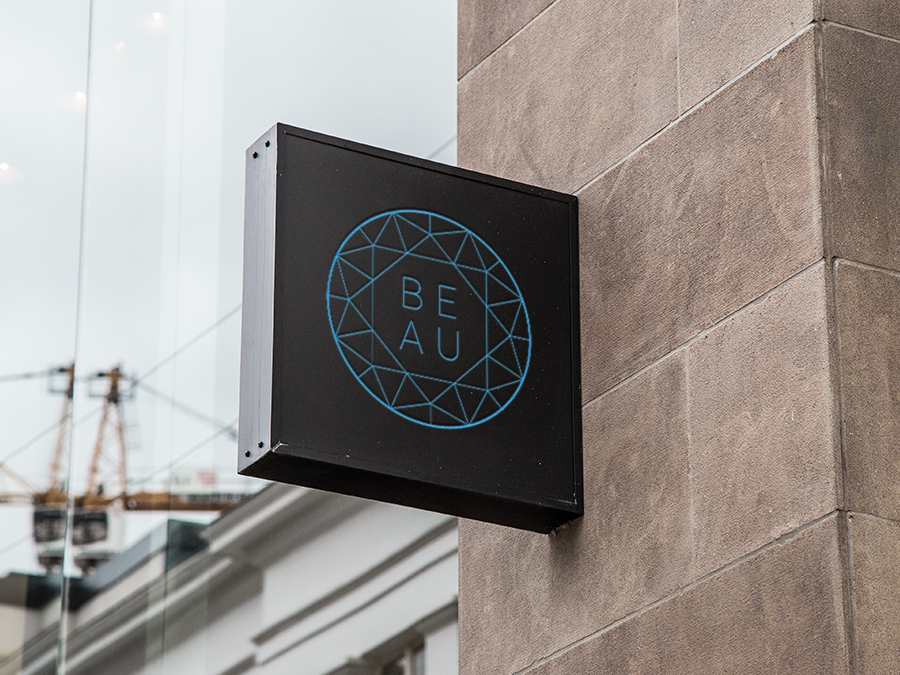
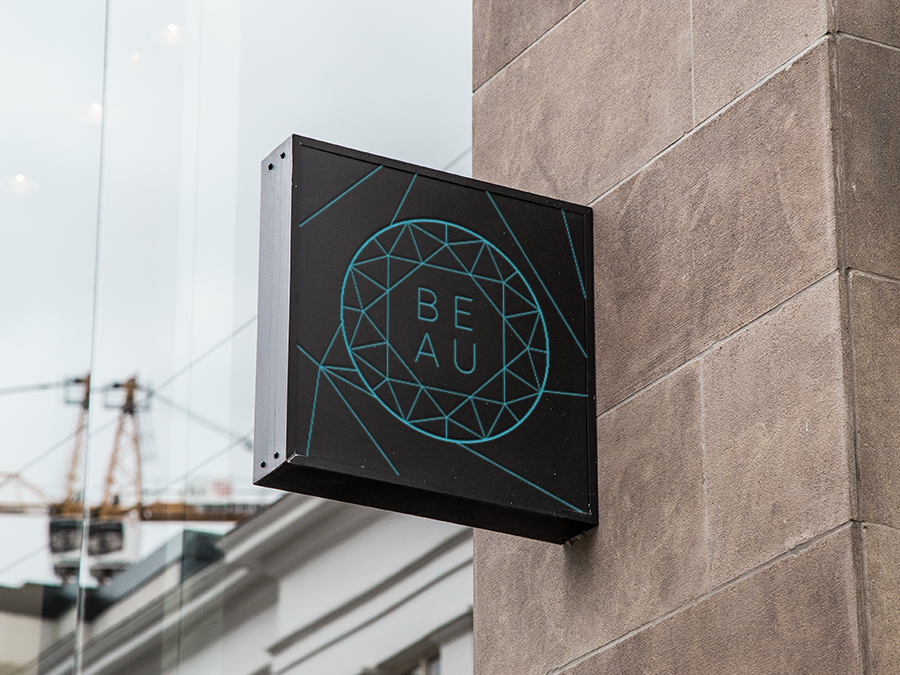
beau image add and colour change

diff --git a/docs/static/js/app.0203f46a03624565697a.js b/docs/static/js/app.0203f46a03624565697a.js
@@ -1,0 +1,1 @@
+webpackJsonp([0],{"0NSj":function(e,t){},"2oSw":function(e,t){},NHnr:function(e,t,i){"use strict";Object.defineProperty(t,"__esModule",{value:!0});var n=i("7+uW"),a=i("/ocq"),o=i("cVxw"),r=i.n(o),s={name:"Projects",data:function(){return{projects:r.a}},mounted:function(){document.title="Oli Heslington — Graphic Designer"}},c={render:function(){var e=this,t=e.$createElement,i=e._self._c||t;return i("main",{staticClass:"container projects"},[e._m(0),e._v(" "),i("section",e._l(e.projects,function(t){return i("router-link",{key:t.id,staticClass:"tile inverted",style:{background:t.color},attrs:{tag:"div",to:"/projects/"+t.id,data:t}},[i("div",{staticClass:"overlay"},[i("h2",{domProps:{innerHTML:e._s(t.title)}}),e._v(" "),i("p",[e._v("Explore project")])]),e._v(" "),i("img",{attrs:{src:"/static/img/"+t.id+"-ft.png",alt:t.title}})])}))])},staticRenderFns:[function(){var e=this.$createElement,t=this._self._c||e;return t("div",{staticClass:"container"},[t("h1",[this._v("Hi. I’m Oli. Graphic Designer & Creative Thinker.")])])}]};var l=i("VU/8")(s,c,!1,function(e){i("mYj/")},"data-v-6e9c58c6",null).exports,d={render:function(){var e=this.$createElement,t=this._self._c||e;return t("div",{attrs:{id:"app"}},[t("app-header"),this._v(" "),t("router-view",{key:this.$route.path}),this._v(" "),t("app-footer")],1)},staticRenderFns:[]};var h=i("VU/8")(null,d,!1,function(e){i("p7G0")},null,null).exports,u={name:"ProjectDetail",data:function(){return{projects:r.a}},props:["id"],computed:{currentProject:function(){for(var e=this.projects,t=0;t<e.length;t++){if(t+1>e.length-1)var i=t-1,n=0;else if(t-1<0)i=e.length-1,n=t+1;else i=t-1,n=t+1;e[t].prev={id:e[i].id,title:e[i].title},e[t].next={id:e[n].id,title:e[n].title}}var a=this.id;return e.filter(function(e){return e.id===a})}},mounted:function(){for(var e=this.projects,t=0;t<e.length;t++)e[t].id===this.id&&(document.title="Oli Heslington — "+e[t].title,document.getElementsByTagName("header")[0].classList.add("inverted"),document.getElementsByTagName("footer")[0].classList.add("inverted"),document.getElementsByTagName("body")[0].style.backgroundColor=e[t].color)},beforeDestroy:function(){document.getElementsByTagName("header")[0].classList.remove("inverted"),document.getElementsByTagName("footer")[0].classList.remove("inverted"),document.getElementsByTagName("body")[0].style.backgroundColor=null}},p={render:function(){var e=this,t=e.$createElement,i=e._self._c||t;return i("main",{staticClass:"project"},[e._l(e.currentProject,function(t){return i("div",{staticClass:"title"},[i("div",{staticClass:"container"},[i("h1",{domProps:{innerHTML:e._s(t.title)}})])])}),e._v(" "),e._l(e.currentProject,function(t){return i("div",{staticClass:"details"},[i("div",{staticClass:"container"},[i("div",[i("h4",[e._v("Scope")]),e._v(" "),i("ul",e._l(t.scope.length,function(n){return i("li",{staticClass:"caps",domProps:{innerHTML:e._s(t.scope[n-1])}})}))]),e._v(" "),i("div",[i("h4",[e._v("Overview")]),e._v(" "),i("p",{domProps:{innerHTML:e._s(t.overview)}})])])])}),e._v(" "),e._l(e.currentProject,function(t){return i("div",{staticClass:"bg"},[i("div",{staticClass:"container"},[i("img",{attrs:{src:"/static/img/"+t.id+"-1.png",alt:t.title}}),e._v(" "),i("div",{staticClass:"details"},[i("p",{domProps:{innerHTML:e._s(t.commentary)}})]),e._v(" "),e._l(3,function(e){return i("img",{attrs:{src:"/static/img/"+t.id+"-"+(e+1)+".png",alt:t.title}})})],2),e._v(" "),e._l(e.currentProject,function(t){return i("router-link",{key:t.next.id,staticClass:"next",attrs:{tag:"div",to:"/projects/"+t.next.id,data:t}},[i("p",{staticClass:"caps"},[e._v("Next")]),e._v(" "),i("h2",[e._v(e._s(t.next.title))])])})],2)})],2)},staticRenderFns:[]};var m=i("VU/8")(u,p,!1,function(e){i("2oSw")},"data-v-1106ae18",null).exports,v={mounted:function(){function e(){var e=window.innerHeight-(document.getElementsByTagName("header")[0].offsetHeight+document.getElementsByTagName("footer")[0].offsetHeight);document.getElementsByTagName("main")[0].style.minHeight=e+"px"}document.title="Oli Heslington — About",document.getElementsByTagName("body")[0].classList.add("inverted"),e(),window.onresize=e},beforeDestroy:function(){document.getElementsByTagName("body")[0].classList.remove("inverted"),document.getElementsByTagName("main")[0].style.minHeight=null}},g={render:function(){this.$createElement;this._self._c;return this._m(0)},staticRenderFns:[function(){var e=this,t=e.$createElement,i=e._self._c||t;return i("main",{staticClass:"about"},[i("div",{staticClass:"container"},[i("div",[i("h1",[e._v("OH, hello there…")])]),e._v(" "),i("div",[i("p",[e._v("I’m Oli Heslington a graphic designer and creative thinker with a passion for all things creative. I never miss a deadline I love a design challenge. My strengths lie in branding, corporate stationery, editorial design, website design, print and digital collateral and iconography and I enjoy exploring design solutions in order to develop new, contemporary, original and unique ideas to exceed clients’ expectations.")]),e._v(" "),i("p",[i("a",{attrs:{href:"mailto:oliheslington@gmail.com"}},[e._v("Email me")]),e._v(" to discuss your next project, or simply just say hello! 👋")])]),e._v(" "),i("div",[i("ul",[i("li",[i("h3",[e._v("Branding")])]),e._v(" "),i("li",[i("h3",[e._v("Corporate Stationery")])]),e._v(" "),i("li",[i("h3",[e._v("Editorial Design")])]),e._v(" "),i("li",[i("h3",[e._v("Website Design")])]),e._v(" "),i("li",[i("h3",[e._v("Print & Digital")])]),e._v(" "),i("li",[i("h3",[e._v("Iconography")])])])])])])}]};var f=i("VU/8")(v,g,!1,function(e){i("0NSj")},"data-v-6bc19062",null).exports;n.a.use(a.a);var y=new a.a({routes:[{path:"/",redirect:"/projects"},{path:"/projects",name:"Projects",component:l},{path:"/projects/:id",name:"ProjectDetail",component:m,props:!0},{path:"/about",name:"About",component:f}],scrollBehavior:function(e,t,i){return{x:0,y:0}}}),_={render:function(){var e=this.$createElement,t=this._self._c||e;return t("header",[t("router-link",{attrs:{exact:"",tag:"svg",to:"/projects",xmlns:"http://www.w3.org/2000/svg","xmlns:xlink":"http://www.w3.org/1999/xlink",x:"0px",y:"0px",width:"1000px",height:"1000px",viewBox:"0 0 1000 1000","enable-background":"new 0 0 1000 1000","xml:space":"preserve"}},[t("g",[t("path",{staticClass:"outer",attrs:{d:"M500,0c276.143,0,500,223.857,500,500s-223.857,500-500,500S0,776.143,0,500S223.857,0,500,0z"}}),this._v(" "),t("path",{staticClass:"inner",attrs:{d:"M330.871,336.785C233.415,336.785,158.2,403.015,158.2,500s75.214,163.214,172.671,163.214 S503.543,596.972,503.543,500S428.328,336.785,330.871,336.785z"}}),this._v(" "),t("path",{staticClass:"inner",attrs:{d:"M841.8,657.528h-95.57V536.9H633.172v120.628H537.6V341.986h95.572v111.655h113.058V341.986h95.57V657.528z"}}),this._v(" "),t("path",{staticClass:"outer",attrs:{d:"M336.349,421.116c-1.824-0.105-3.651-0.146-5.478-0.116c-41.243-0.637-75.193,32.28-75.83,73.523 c-0.029,1.825,0.01,3.652,0.116,5.477c-2.388,41.179,29.058,76.496,70.237,78.884c1.824,0.105,3.651,0.146,5.477,0.116 c41.243,0.638,75.192-32.28,75.831-73.523c0.029-1.825-0.011-3.652-0.116-5.477C408.974,458.821,377.527,423.504,336.349,421.116z"}})])]),this._v(" "),t("nav",[t("router-link",{staticClass:"caps",attrs:{tag:"a",to:"/projects"}},[this._v("Projects")]),this._v(" "),t("router-link",{staticClass:"caps",attrs:{tag:"a",to:"/about"}},[this._v("About")])],1)],1)},staticRenderFns:[]};var b=i("VU/8")(null,_,!1,function(e){i("nSCA")},"data-v-4db2c1c5",null).exports,w={render:function(){var e=this.$createElement,t=this._self._c||e;return t("footer",[t("small",[this._v("© "),t("span",[this._v("Copyright")]),this._v(" "+this._s((new Date).getFullYear())+" Oli Heslington")]),this._v(" "),t("a",{attrs:{href:"mailto:oliheslington@gmail.com"}},[this._v("oliheslington@gmail.com")])])},staticRenderFns:[]};var j=i("VU/8")(null,w,!1,function(e){i("Pw+e")},"data-v-b7451a0c",null).exports;n.a.component("app-header",b),n.a.component("app",h),n.a.component("app-footer",j),new n.a({el:"#app",router:y,components:{App:h},template:"<app/>"})},"Pw+e":function(e,t){},cVxw:function(e,t){e.exports=[{id:"fernhay",title:"Fernhay",scope:["Website Design"],overview:"The brief for this project was to create a new website design for Fernhay, an independent project management and product delivery company. They wanted their website to showcase their services and thought process involved with every project they undertake whilst evoking a friendly, high quality service.",commentary:"Lorem ipsum dolor sit amet, consectetur adipiscing elit. Curabitur non diam eu orci lobortis ultrices sed vel metus. Etiam eu viverra nulla, lacinia ultricies turpis. Mauris vitae vehicula dolor. Vestibulum posuere nullam.",color:"#1b99a7"},{id:"thirteen",title:"Osborne Pike",scope:["Editorial Design"],overview:"The brief for this project was to create a book to celebrate Osborne Pike's 13<sup>th</sup> birthday. The book would include 13 launched projects and 13 concepts.",commentary:"The concept that I chose for the book combines both their existing brand and their previous logo, creating lines and directing the reader through a story of their work.",color:"#f89623"},{id:"beau",title:"BEAU",scope:["Branding","Print Collateral"],overview:"The brief for this project was to create a brand for a new luxury menswear label. The clothing is directed for the modern gentleman, who appreciates the good quality of life and notices the little details. The brief was to focus on innovation and engineering achievement that Britain has accomplished.",commentary:"The logo has been created by reflecting Britain as a whole by the use of a circle and triangular shapes represent engineering as these are commonly used when constructing structures.",color:"#239fb5"},{id:"liv",title:"LIV",scope:["Branding","Print Collateral","App Design"],overview:"The brief for this project was to create a campaign that could be used within todays society. I aimed to educated and help young adults between the age of 18 - 25 about the dangers of binge drinking and the effect on their health. This is one of the biggest problems that affect young adults in today’s modern society.",commentary:"The LIV logo was created by using the idea of veins and arteries to form a bespoke typeface and logo that referenced the campaigns intentions.",color:"#ffcccc"},{id:"janesmith",title:"Jane Smith Training",scope:["Website Design"],overview:"The brief for this project was to create a series of landing pages for Jane Smith Training to promote their new Workshop courses.",commentary:"The look and feel of the website has been continued throughout the landing pages. A form was added to the main banner with a short description of the course to allow viewers to access key information instantly and sign up.",color:"#e95305"},{id:"cocoon",title:"Cocoon",scope:["Branding","Print Collateral","App Design"],overview:"The brief for this project was to create a campaign that could be used today. I aimed to promote and educate young adults about the dangers of cycle helmet safety.",commentary:"The Cocoon logo has been created using circles and the ‘C’ uses a slice of a circle to represent the riders head and helmet.",color:"#fa8231"},{id:"apex",title:"Apex Air Conditioning",scope:["Branding","Corporate Stationery","Website Design"],overview:"The brief for this project was to create a new brand identity, corporate stationery, website design and health and safety documents to update the Apex Air Conditioning brand.",commentary:"The logo combines the feel of water and air which represent the services which they provide. This creates an abstract visual, forming key elements of Apex's core values.",color:"#5c7aba"}]},"mYj/":function(e,t){},nSCA:function(e,t){},p7G0:function(e,t){}},["NHnr"]);

diff --git a/docs/index.html b/docs/index.html
@@ -1,1 +1,1 @@
-<!DOCTYPE html><html lang=en><head><meta charset=UTF-8><meta http-equiv=X-UA-Compatible content="IE=edge"><meta name=viewport content="width=device-width,minimum-scale=1,initial-scale=1"><meta name=apple-mobile-web-app-capable content=yes><title>Oli Heslington — Graphic Designer</title><meta name=description content="Oli Heslington is a Graphic Designer based in Somerset, United Kingdom."><meta name=author content="Oli Heslington"><meta name=twitter:card content=summary_large_image><meta name=twitter:image content=https://oliheslington.com/static/img/ft.png><meta property=og:title content="Oli Heslington — Graphic Designer"><meta property=og:description content="Oli Heslington is a Graphic Designer based in Somerset, United Kingdom."><meta property=og:type content=website><meta property=og:url content=https://oliheslington.com><meta property=og:image content=https://oliheslington.com/static/img/ft.png><meta property=og:locale content=en_GB><meta name=theme-color content=#ffffff><meta name=msapplication-TileColor content=#181c1d><link rel=mask-icon href=/static/img/safari-pinned-tab.svg color=#181c1d><link rel=apple-touch-icon sizes=180x180 href=/static/img/apple-touch-icon.png><link rel=icon type=image/png sizes=32x32 href=/static/img/favicon-32x32.png><link rel=icon type=image/png sizes=16x16 href=/static/img/favicon-16x16.png><link rel=manifest href=/site.webmanifest><link href=static/css/app.6b86b1abd327187a54ac9eb64a682572.css rel=stylesheet></head><body><div id=app></div><script type=text/javascript src=static/js/manifest.37a2ecbb1d1b7e6c9ada.js></script><script type=text/javascript src=static/js/vendor.1748317793fd05195ff8.js></script><script type=text/javascript src=static/js/app.deaffc38dda3fc825d19.js></script></body></html>
+<!DOCTYPE html><html lang=en><head><meta charset=UTF-8><meta http-equiv=X-UA-Compatible content="IE=edge"><meta name=viewport content="width=device-width,minimum-scale=1,initial-scale=1"><meta name=apple-mobile-web-app-capable content=yes><title>Oli Heslington — Graphic Designer</title><meta name=description content="Oli Heslington is a Graphic Designer based in Somerset, United Kingdom."><meta name=author content="Oli Heslington"><meta name=twitter:card content=summary_large_image><meta name=twitter:image content=https://oliheslington.com/static/img/ft.png><meta property=og:title content="Oli Heslington — Graphic Designer"><meta property=og:description content="Oli Heslington is a Graphic Designer based in Somerset, United Kingdom."><meta property=og:type content=website><meta property=og:url content=https://oliheslington.com><meta property=og:image content=https://oliheslington.com/static/img/ft.png><meta property=og:locale content=en_GB><meta name=theme-color content=#ffffff><meta name=msapplication-TileColor content=#181c1d><link rel=mask-icon href=/static/img/safari-pinned-tab.svg color=#181c1d><link rel=apple-touch-icon sizes=180x180 href=/static/img/apple-touch-icon.png><link rel=icon type=image/png sizes=32x32 href=/static/img/favicon-32x32.png><link rel=icon type=image/png sizes=16x16 href=/static/img/favicon-16x16.png><link rel=manifest href=/site.webmanifest><link href=static/css/app.6b86b1abd327187a54ac9eb64a682572.css rel=stylesheet></head><body><div id=app></div><script type=text/javascript src=static/js/manifest.37a2ecbb1d1b7e6c9ada.js></script><script type=text/javascript src=static/js/vendor.1748317793fd05195ff8.js></script><script type=text/javascript src=static/js/app.0203f46a03624565697a.js></script></body></html>
